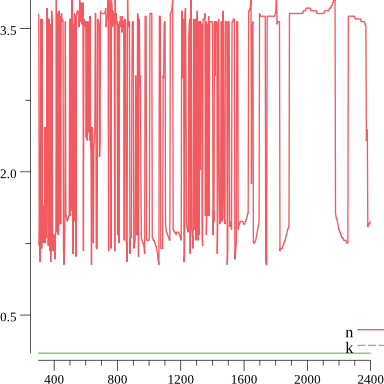
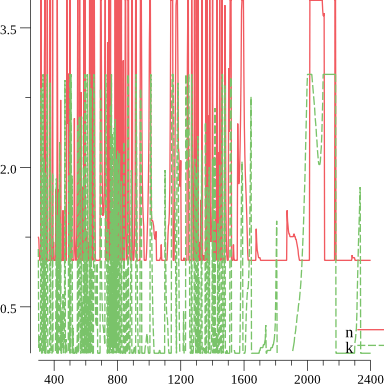
some fixes for the formulas (still not working)

diff --git a/calcback.go b/calcback.go
@@ -33,7 +33,7 @@ const (
 	n_air    = complex(1,0)                  // refractive index of air
 	n_S             = complex(3.6449,0)             // refractive index of substrate
 	rerange         = 3.8                // real part from 0.1 to ...
-	imrange         = 25                 // imaginary part from 0.1 to ...
+	imrange         = 3                 // imaginary part from 0.1 to ...
 	cmplx_pi = complex(math.Pi, 0)
 )
 
@@ -88,7 +88,7 @@ func Calc_rho(lambdafloat float64) (n_rho [][]complex128) {
 	k := make([]float64, 100)
 	var nslice []complex128
 	for _, x := range floats.Span(n, 1.0, rerange) {
-		for _, y := range floats.Span(k, 0.1, imrange) {
+		for _, y := range floats.Span(k, 0.001, imrange) {
 			c := complex(x, y)
 			nslice = append(nslice, c)
 		}
@@ -114,18 +114,18 @@ func Calc_rho(lambdafloat float64) (n_rho [][]complex128) {
 		// Fresnel equations:
 		//
 		// air/layer:
-		rs_al := (n_air*cmplx.Cos(phi_i) - n_L*cmplx.Cos(phi_L)) / n_air * cmplx.Cos(phi_i+n_L*cmplx.Cos(phi_L))
-		rp_al := (n_L*cmplx.Cos(phi_i)-n_air*cmplx.Cos(phi_L))/n_L*cmplx.Cos(phi_i) + n_air*cmplx.Cos(phi_L)
+		rs_al := (n_air*cmplx.Cos(phi_i) - n_L*cmplx.Cos(phi_L)) / (n_air * cmplx.Cos(phi_i+n_L*cmplx.Cos(phi_L)))
+		rp_al := (n_L*cmplx.Cos(phi_i)-n_air*cmplx.Cos(phi_L))/(n_L*cmplx.Cos(phi_i) + n_air*cmplx.Cos(phi_L))
 
 		// layer/substrate:
-		rs_ls := n_L*cmplx.Cos(phi_L) - n_S*cmplx.Cos(phi_S)/n_L*cmplx.Cos(phi_L) + n_S*cmplx.Cos(phi_S)
-		rp_ls := n_S*cmplx.Cos(phi_L) - n_L*cmplx.Cos(phi_S)/n_S*cmplx.Cos(phi_L) + n_L*cmplx.Cos(phi_S)
+		rs_ls := (n_L*cmplx.Cos(phi_L) - n_S*cmplx.Cos(phi_S))/(n_L*cmplx.Cos(phi_L) + n_S*cmplx.Cos(phi_S))
+		rp_ls := (n_S*cmplx.Cos(phi_L) - n_L*cmplx.Cos(phi_S))/(n_S*cmplx.Cos(phi_L) + n_L*cmplx.Cos(phi_S))
 
 		beta := (2 * math.Pi / lambda) * d_L * n_L * cmplx.Cos(phi_L)
 
-		rp_L := (rp_al * rp_ls) * cmplx.Exp(2*beta) / (1 + rp_al)*rp_ls*cmplx.Exp(2*beta)
+		rp_L := ((rp_al + rp_ls) * cmplx.Exp(-2*beta)) / ((1 + rp_al)*rp_ls*cmplx.Exp(-2*beta))
 
-		rs_L := (rs_al * rs_ls) * cmplx.Exp(2*beta) / (1 + rs_al)*rs_ls*cmplx.Exp(2*beta)
+		rs_L := ((rs_al + rs_ls) * cmplx.Exp(-2*beta)) / ((1 + rs_al)*rs_ls*cmplx.Exp(-2*beta))
 
 		rho_L = rp_L / rs_L
 		row := []complex128{n, rho_L}
